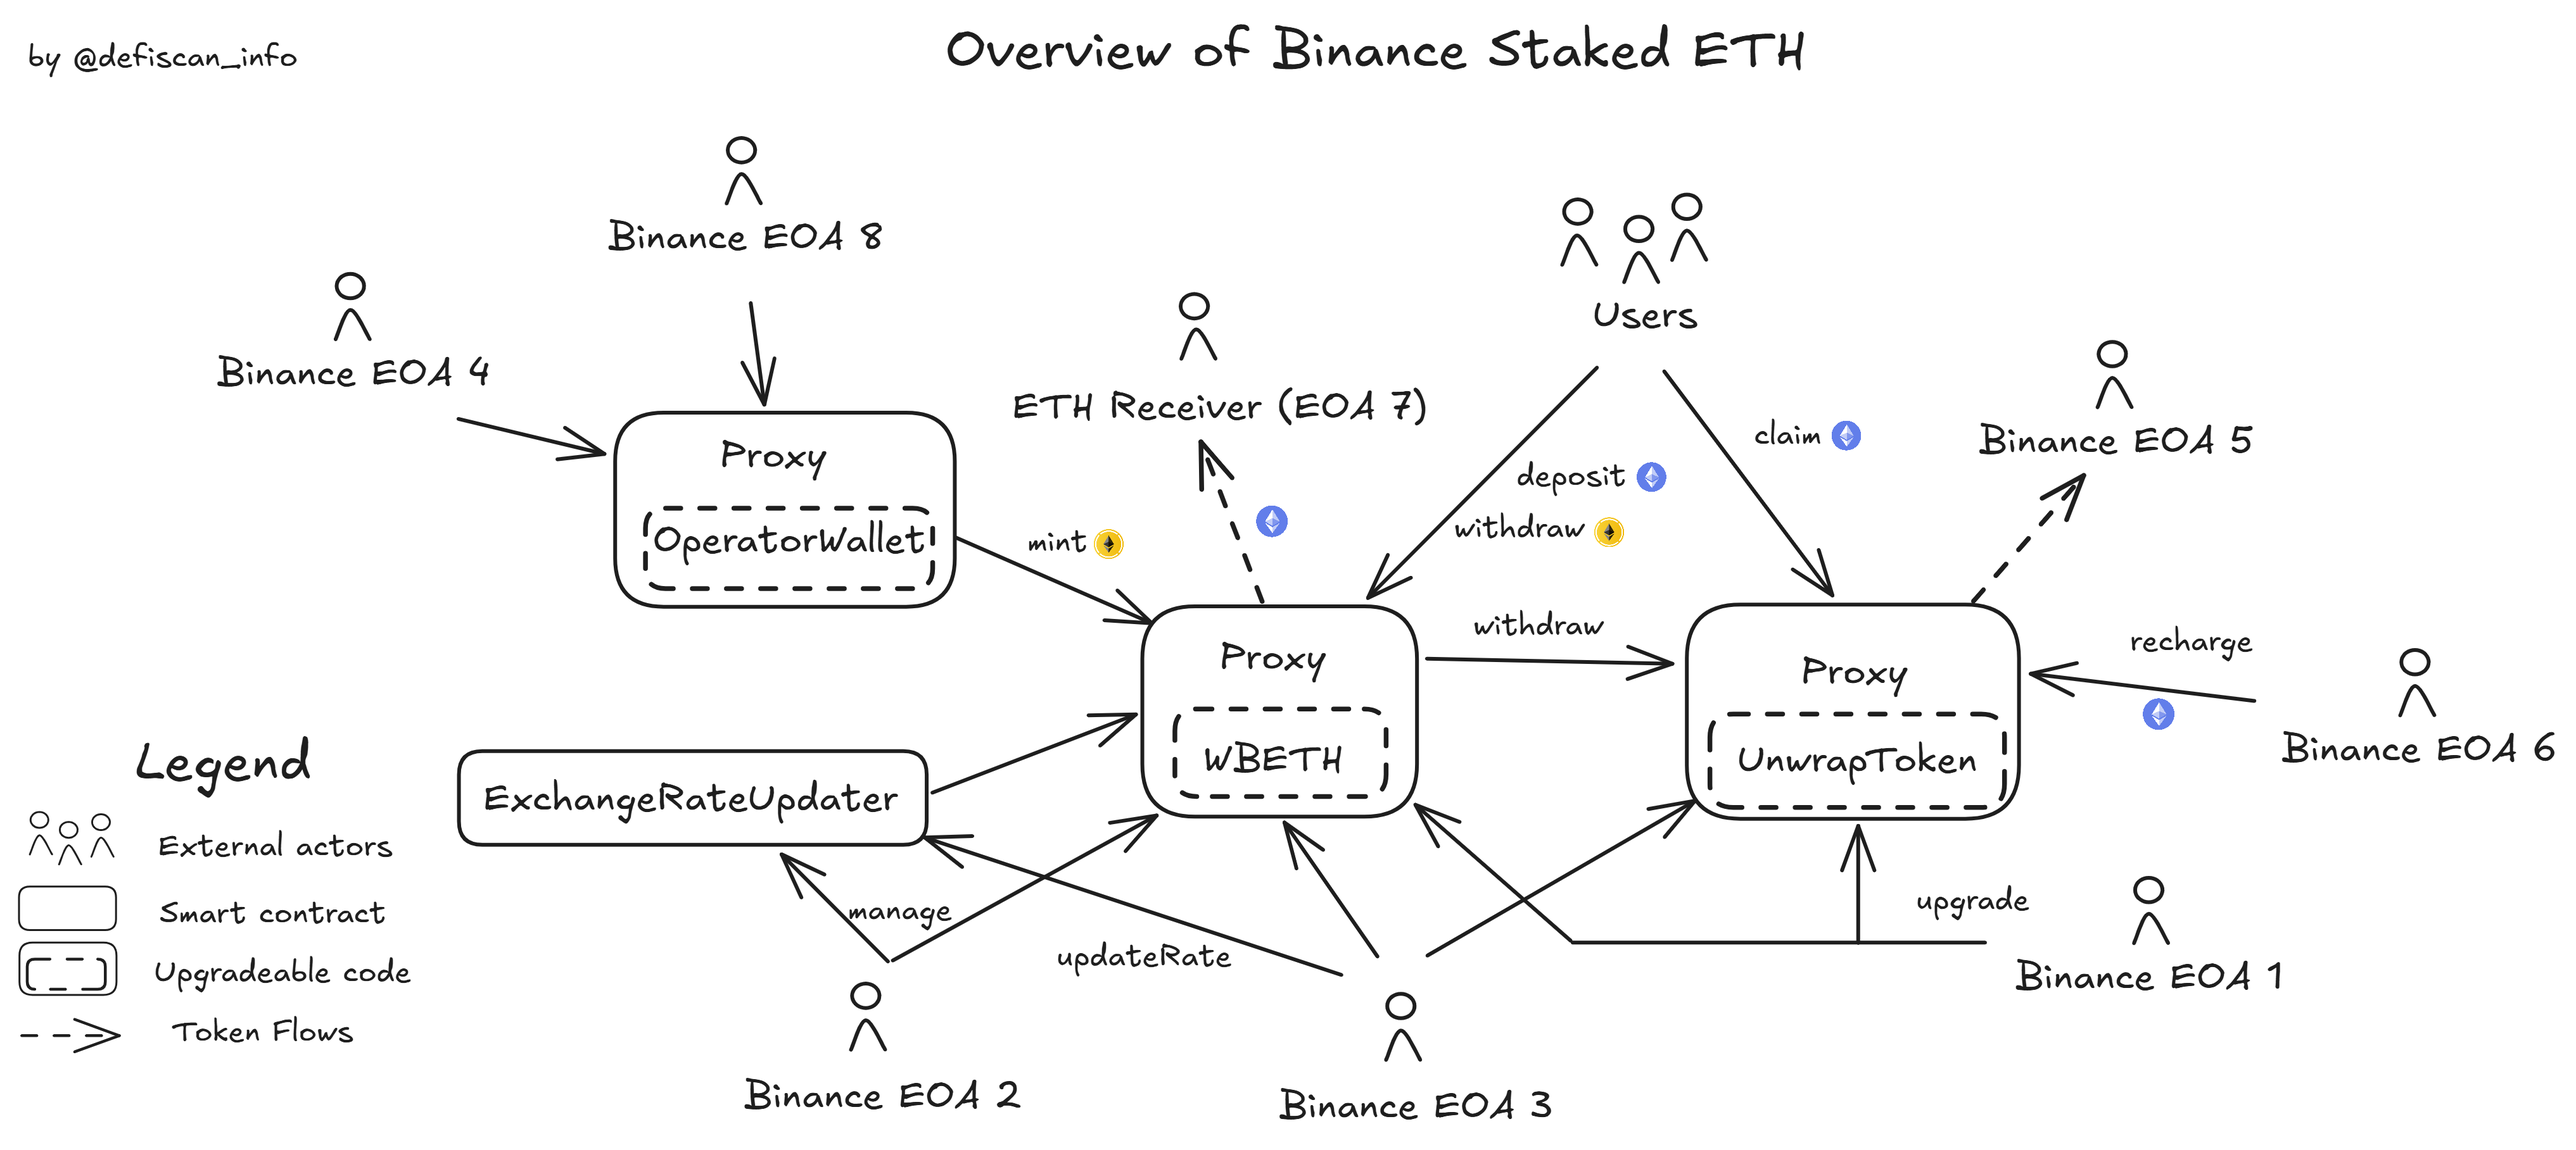
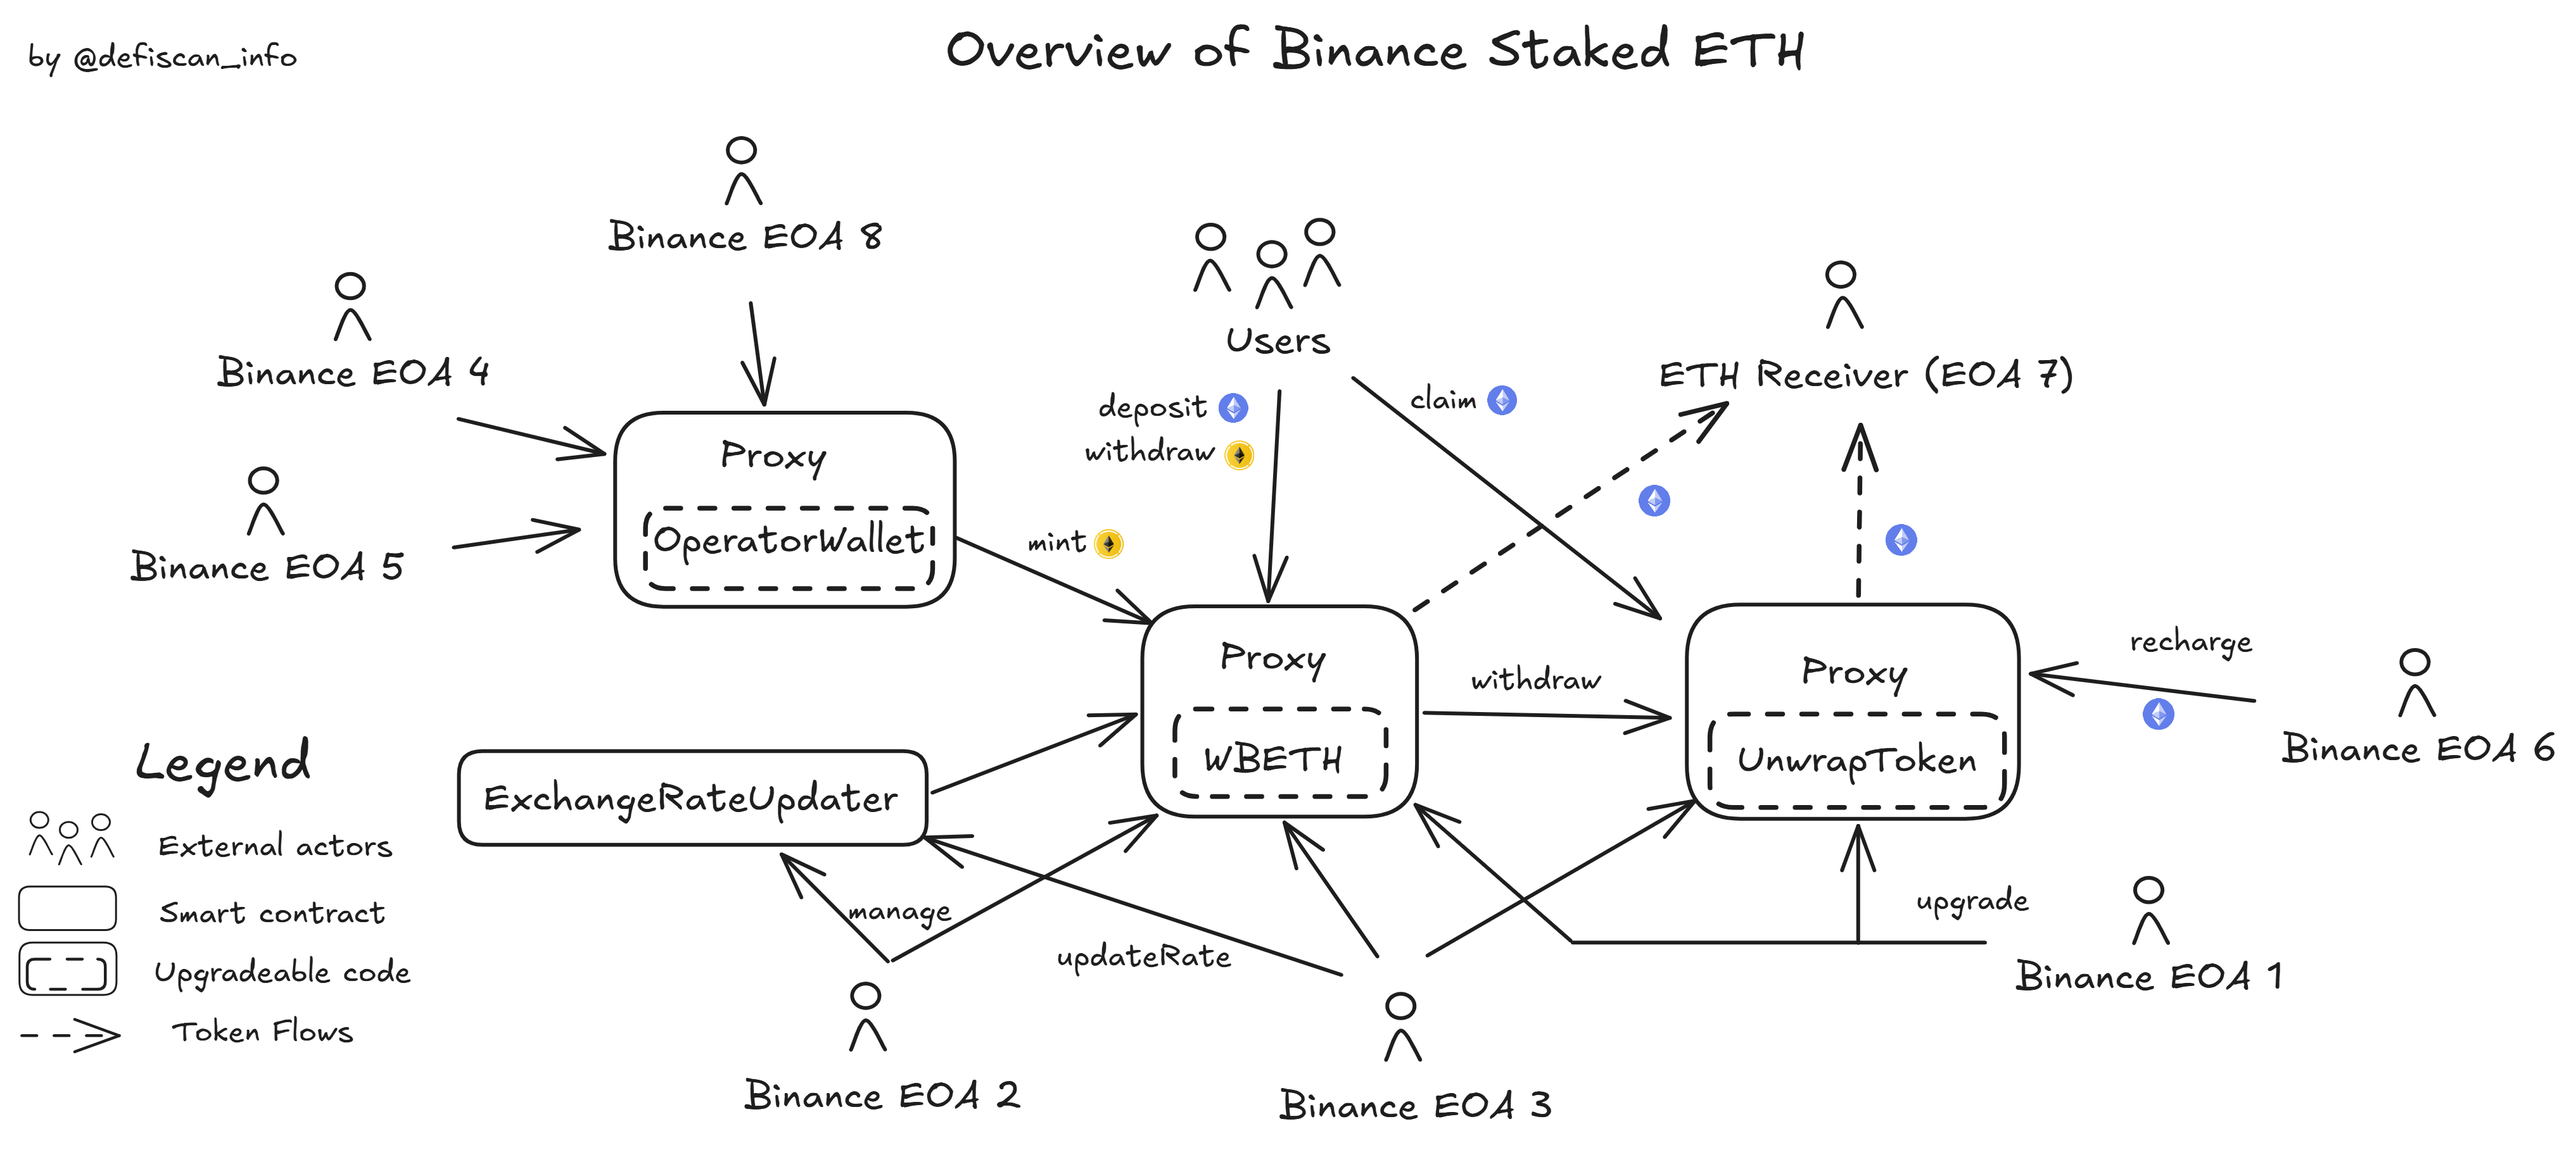
update diagram

diff --git a/src/content/protocols/binance-staked-eth/ethereum.md b/src/content/protocols/binance-staked-eth/ethereum.md
@@ -83,7 +83,7 @@ The overview of the protocol can be seen in the diagram below.
 
 The protocol relies on Externally Owned Accounts (EOAs) to function correctly. Those accounts need to provide exchange rates for `ETH` to `wBETH` and liquidity for withdrawals. `ETH` deposited in the contract can withdrawn to the [Binance EOA 7](#all-permission-owners) for deposits in the Ethereum Proof-of-Stake network by calling `moveToStakingAddress`. This process is not documented and entirely up to Binance, as mentioned in their [Terms of services](https://www.binance.com/en/terms-ETH-2-0-staking).
 
-When withdrawing their `ETH` (_unwrapping_ their `wBETH` back to `ETH`), the request is forwarded to the `UnwrapToken` contract that enforces a 7-day delay. EOAs acting as operators ([Binance EOA 3 and 6](#all-permission-owners)) need to allocate liquidity to this contract to address the withdrawals.
+When withdrawing their `ETH` (_unwrapping_ their `wBETH` back to `ETH`), the request is forwarded to the `UnwrapToken` contract that enforces a 7-day delay. EOAs acting as operators ([Binance EOA 3 and 6](#all-permission-owners)) need to allocate liquidity to this contract to address the withdrawals. Any `ETH` left in that contract can be withdrawn to the [Binance EOA 7](#all-permission-owners) by [Binance EOA 3](#all-permission-owners)
 
 The`ExchangeRateUpdator` allows the [Binance EOA 3](#all-permission-owners) to update the `ETH`/`wBETH` rate arbitrarily, this rate determines how much `wBETH` will users receive when depositing, and how much `ETH` they will receive when withdrawing. Users need to trust that the rate is set correctly.
 
